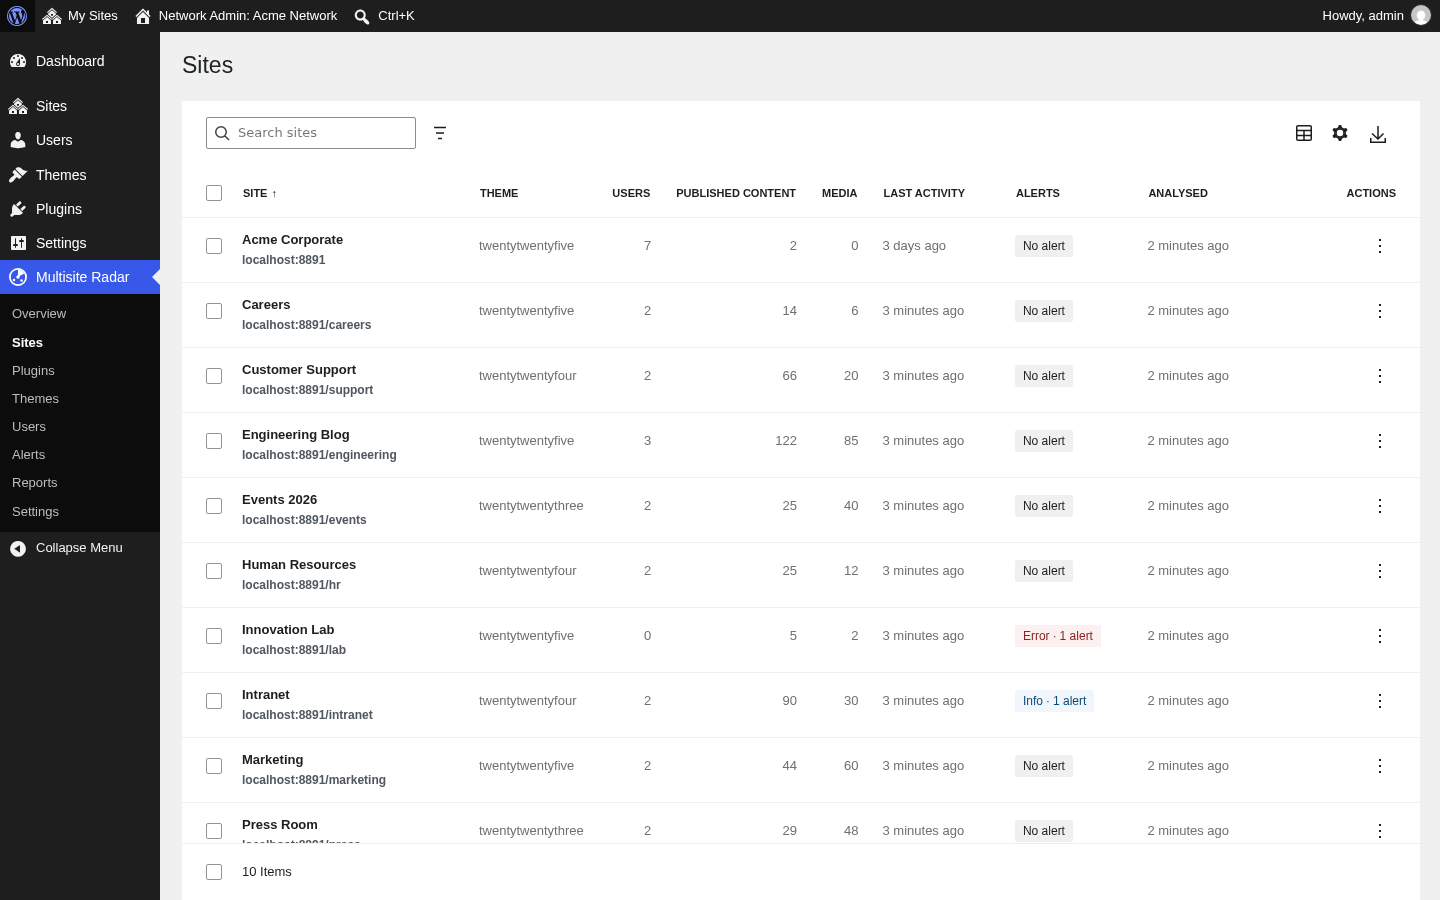
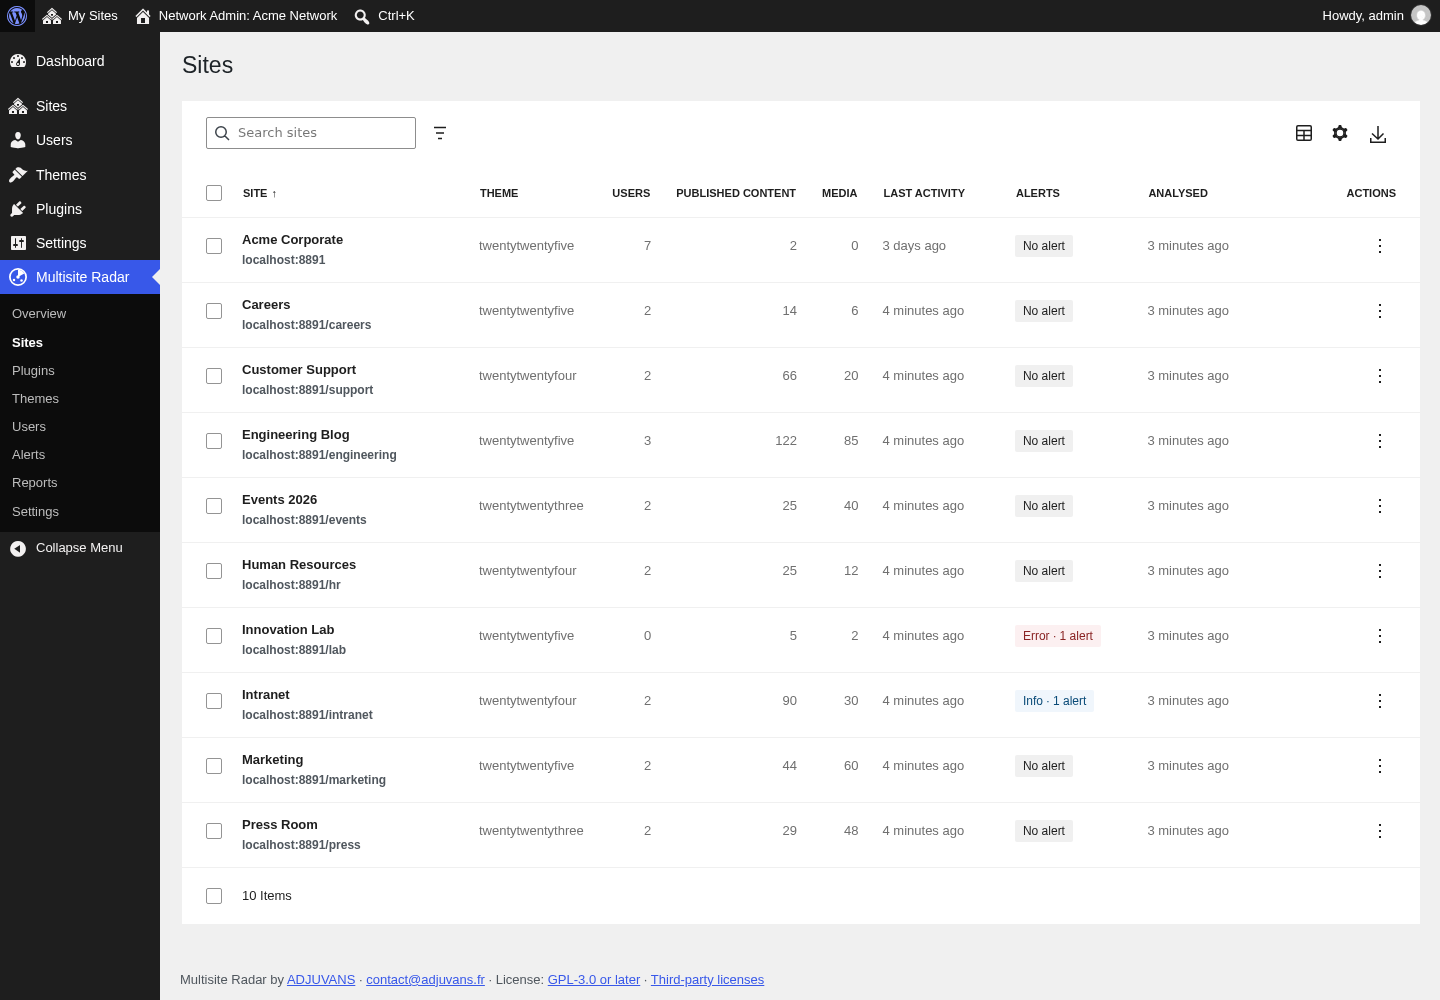
build: show the whole admin menu and every site in the screenshots

diff --git a/tests/e2e/screenshots/wporg.spec.js b/tests/e2e/screenshots/wporg.spec.js
@@ -11,19 +11,27 @@ test.use( { viewport: { width: 1440, height: 900 } } );
 test.describe.configure( { mode: 'serial' } );
 
 async function shoot( page, number, fullPage = false ) {
+	const size = page.viewportSize();
 	// Les avis de WordPress (mise à jour disponible) et la version du plugin n'ont pas leur place dans les captures :
 	// elles ne doivent pas vieillir à chaque publication.
 	await page.addStyleTag( {
 		content:
 			'#wpbody-content .notice, #wpbody-content .update-nag, .msradar-version, #footer-upgrade { display: none !important; }',
 	} );
+	if ( fullPage ) {
+		// Le menu d'administration est fixe : on agrandit la fenêtre à la hauteur du document (fullPage le couperait).
+		const height = await page.evaluate(
+			() => document.documentElement.scrollHeight
+		);
+		await page.setViewportSize( { width: size.width, height } );
+	}
 	await page.mouse.move( 0, 0 );
 	await page.screenshot( {
 		path: path.join( OUT, `screenshot-${ number }.png` ),
 		animations: 'disabled',
 		caret: 'hide',
-		fullPage,
 	} );
+	await page.setViewportSize( size );
 }
 
 async function open( admin, page, query ) {
@@ -43,6 +51,8 @@ test( '1. Overview', async ( { admin, page } ) => {
 } );
 
 test( '2. Sites', async ( { admin, page } ) => {
+	// Assez haut pour que les dix lignes et le pied « 10 Items » tiennent sans défilement interne.
+	await page.setViewportSize( { width: 1440, height: 1000 } );
 	await open( admin, page, 'page=multisite-radar-sites' );
 	await expect(
 		page.locator( '#msradar-app .dataviews-view-table tbody tr' )
